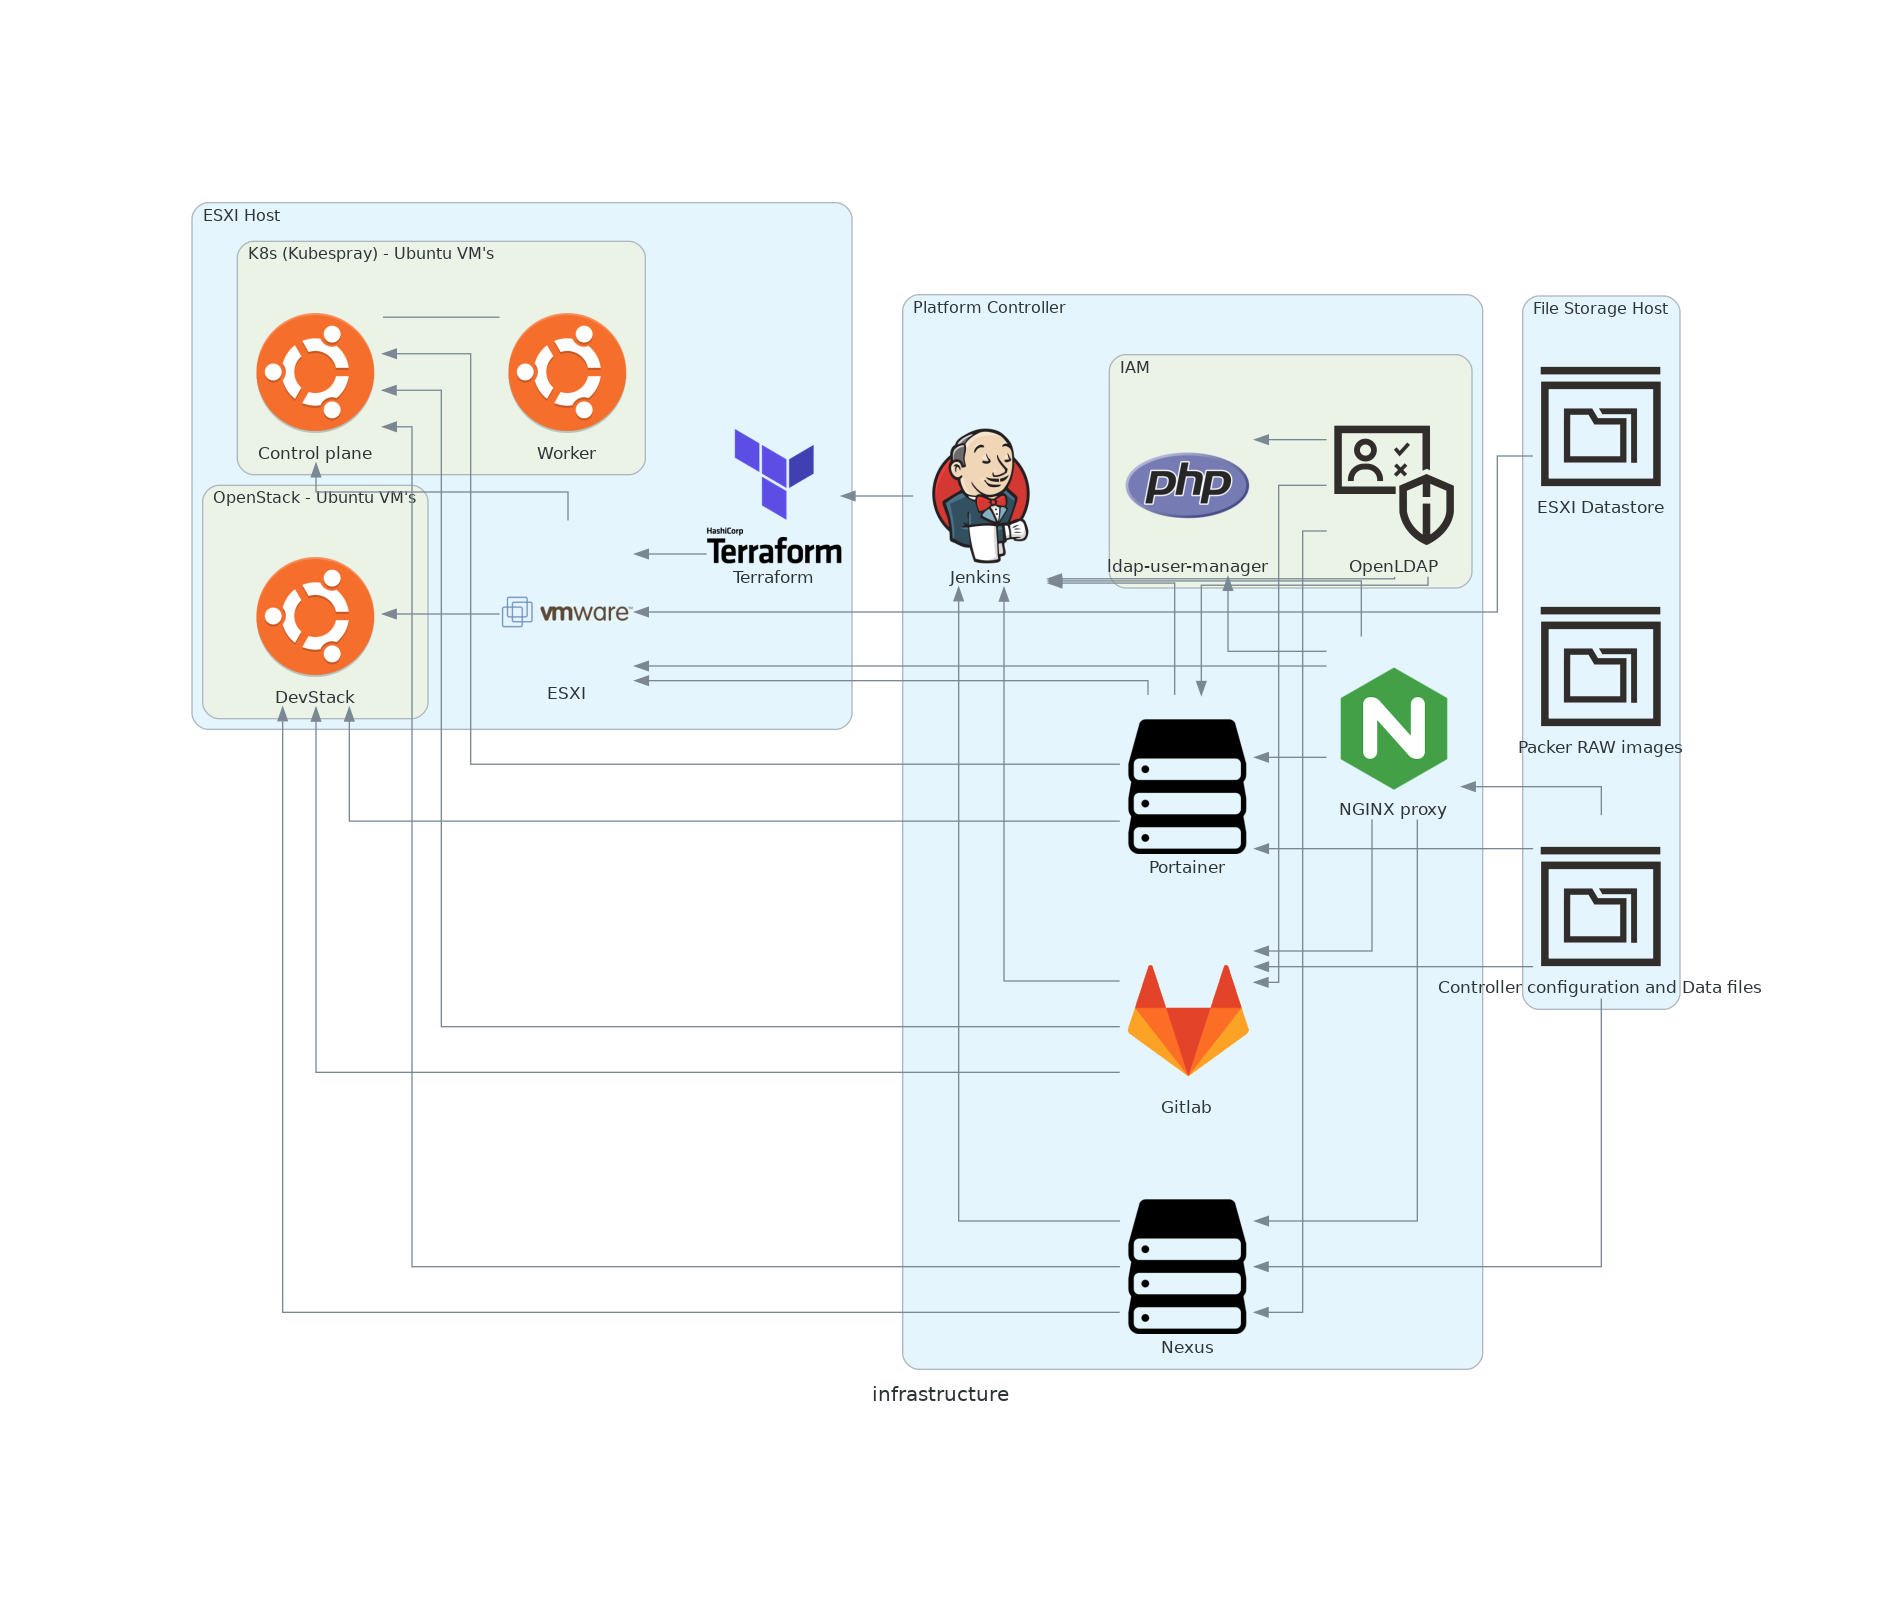
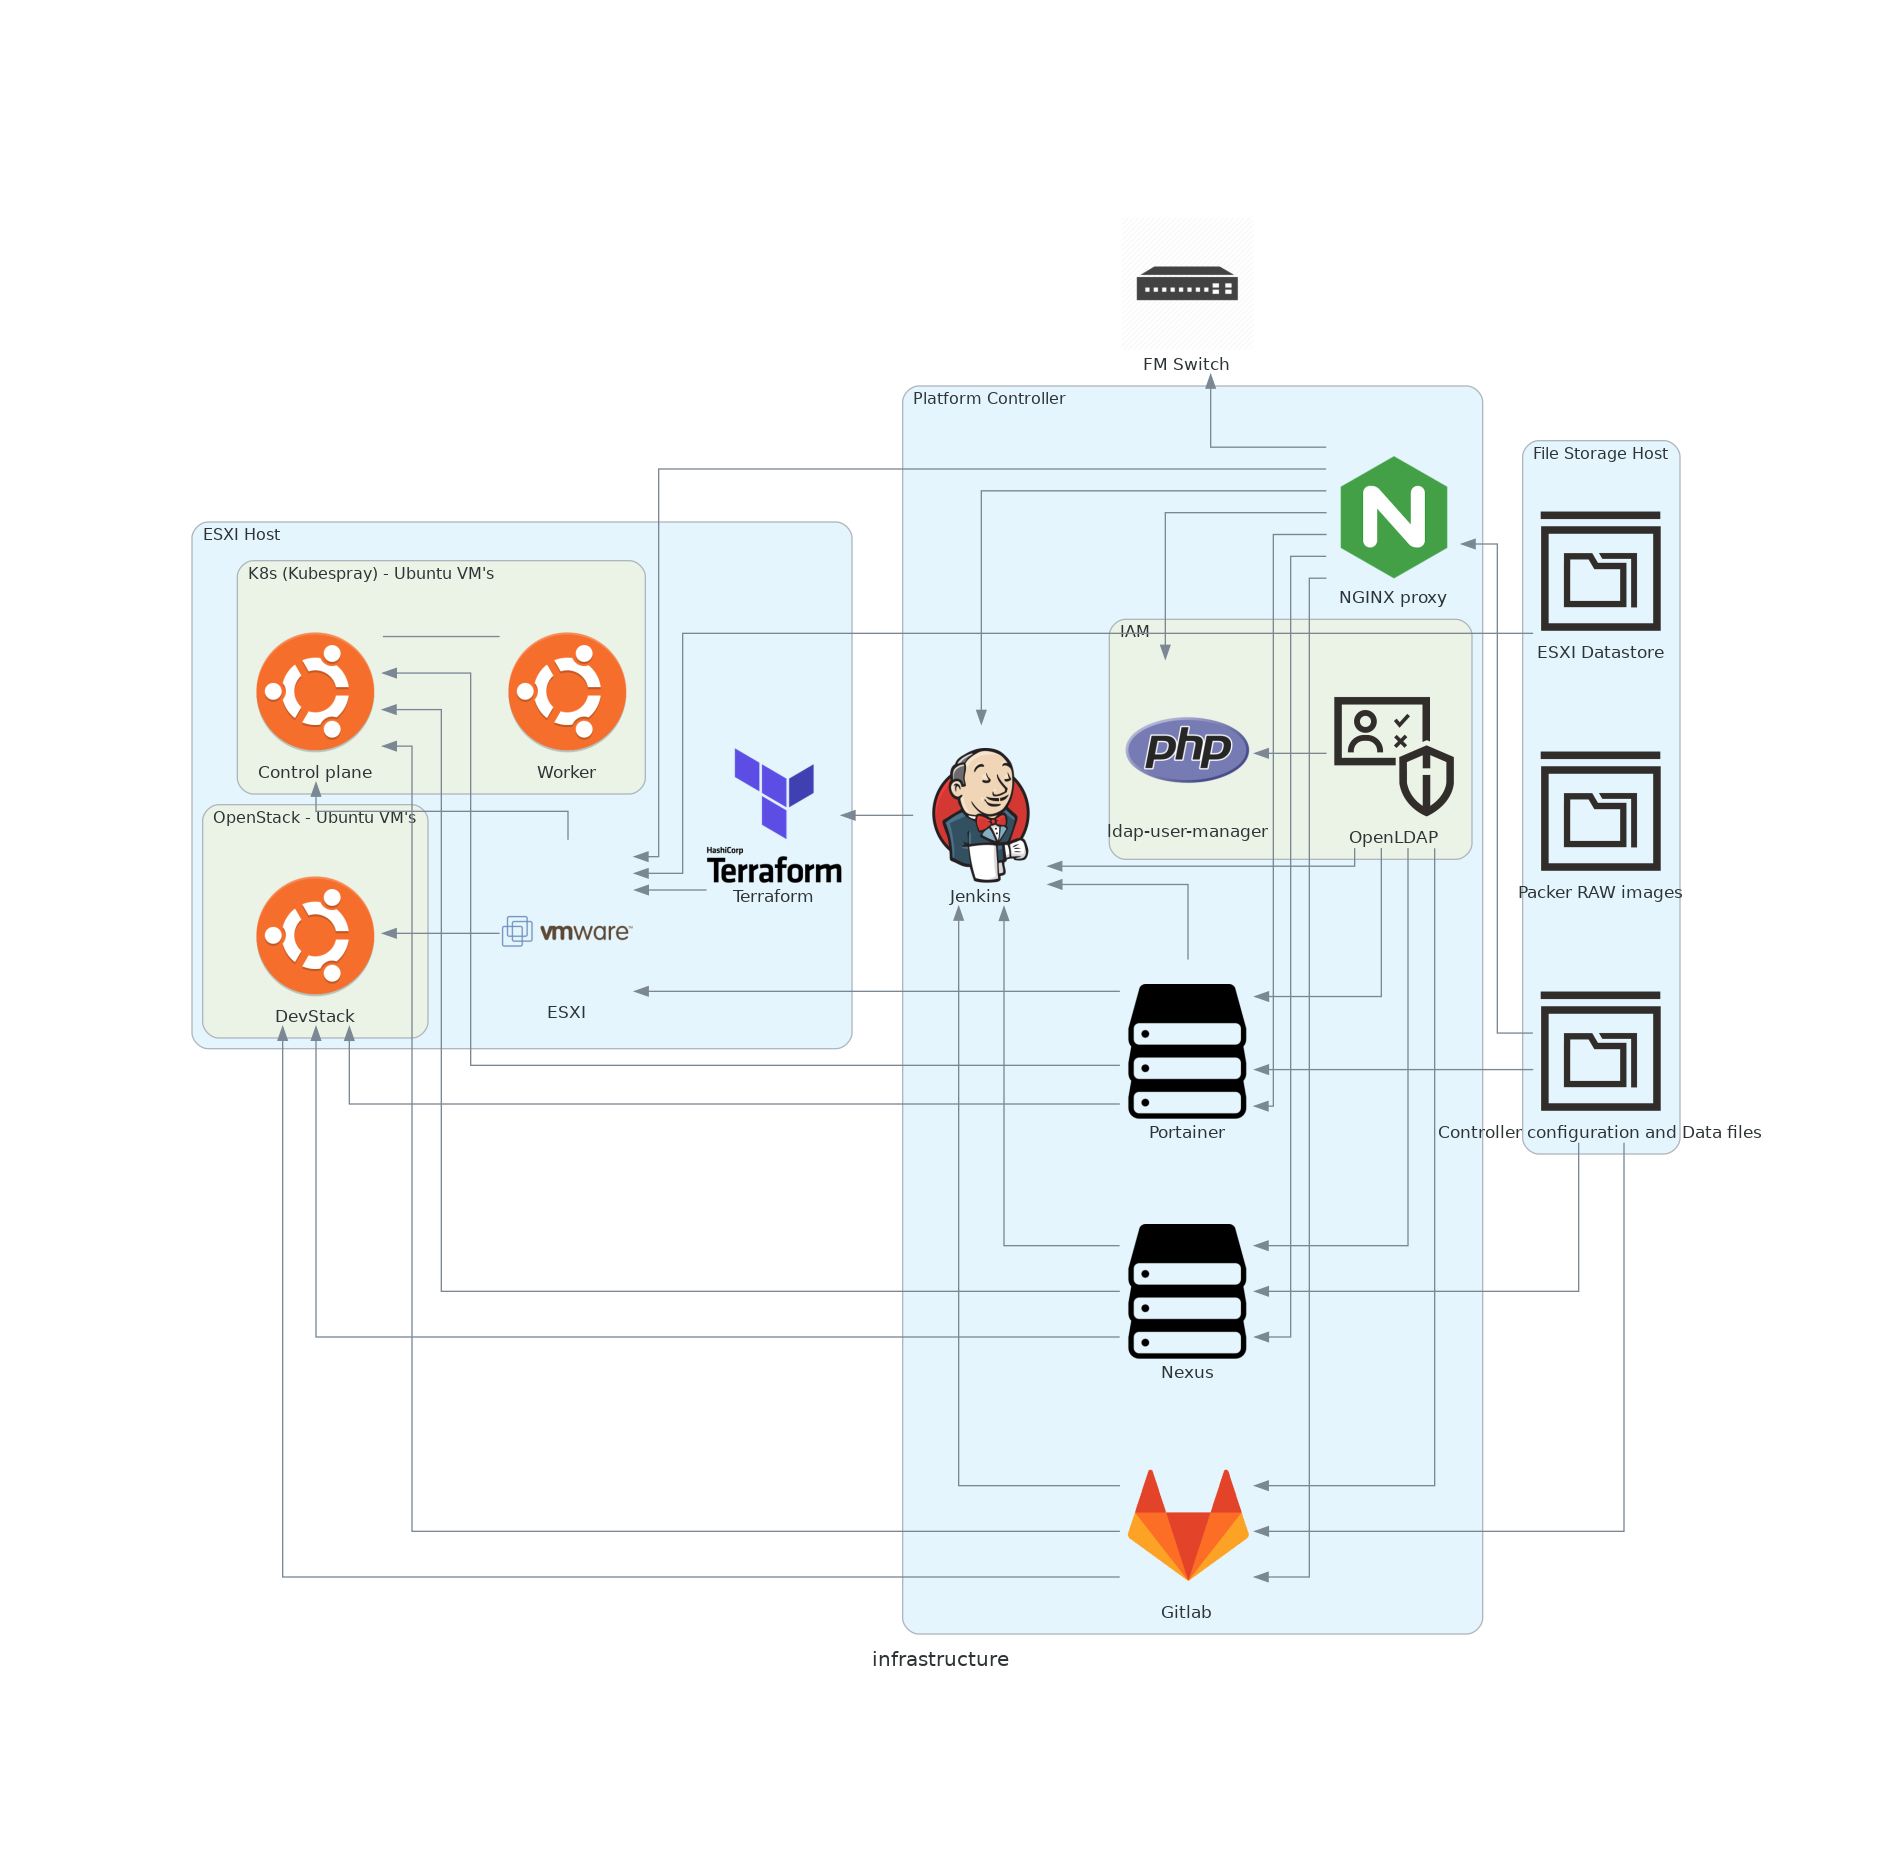
UPDATE: added switch

Changed region(s): [[0.0925, 0.1246, 0.925, 0.9034], [0.8017, 0.3738, 0.8942, 0.4984], [0.74, 0.6854, 0.7709, 0.7165]]

diff --git a/data/infrastructure.py b/data/infrastructure.py
@@ -9,8 +9,10 @@ from diagrams.onprem.iac import Terraform
 from diagrams.onprem.ci import Jenkins
 from diagrams.generic.os import Ubuntu
 from diagrams.oci.storage import FileStorage
+from diagrams.generic.network import Switch
 
 with Diagram("infrastructure", show=False):
+    switch = Switch("FM Switch")
     with Cluster("Platform Controller"):
         # NGINX
         proxy = Nginx("NGINX proxy")
@@ -48,9 +50,12 @@ with Diagram("infrastructure", show=False):
             FileStorage("Controller configuration and Data files")
         ]
 
+
     ci << repo
     repo << nfsv4[2]    
     proxy << nfsv4[2]
+    switch << proxy
+
 
     with Cluster("ESXI Host"):
         # ESXI Host
@@ -63,8 +68,10 @@ with Diagram("infrastructure", show=False):
             control = Ubuntu("Control plane")
             control - Ubuntu("Worker")
 
+
         with Cluster("OpenStack - Ubuntu VM's"):
             openstack = Ubuntu("DevStack")
+
 
         # ESXI external interactions
         esxi << tf
